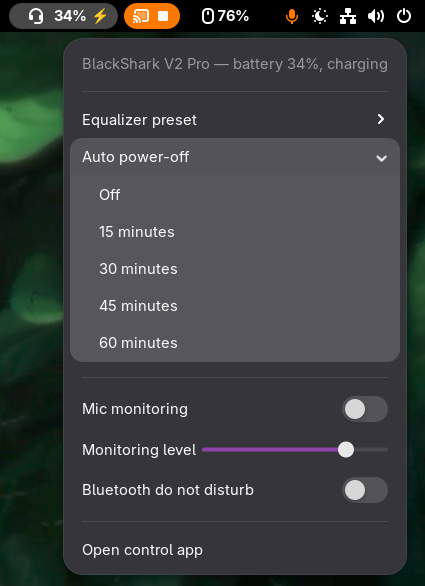
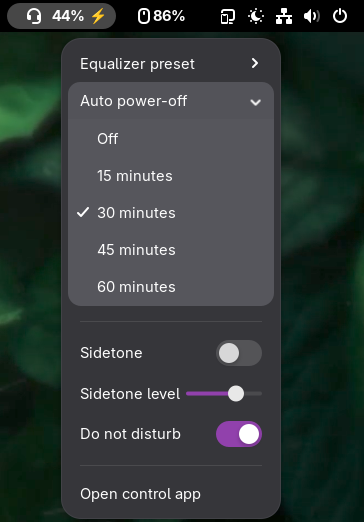
Fix refresh/disable races, find headset by USB ID, drop menu status line, update README

diff --git a/extension.js b/extension.js
@@ -6,6 +6,7 @@
 import Gio from 'gi://Gio';
 import GLib from 'gi://GLib';
 import GObject from 'gi://GObject';
+import Shell from 'gi://Shell';
 import St from 'gi://St';
 import Clutter from 'gi://Clutter';
 
@@ -16,6 +17,12 @@ import * as PopupMenu from 'resource:///org/gnome/shell/ui/popupMenu.js';
 import * as Slider from 'resource:///org/gnome/shell/ui/slider.js';
 
 const BUS = 'org.razer';
+// USB id of the 2.4 GHz dongle; matched instead of the device name so other
+// BlackShark models OpenRazer may support later are left alone.
+const RAZER_VID = 0x1532;
+const BLACKSHARK_PID = 0x0555;
+// Installed by the BlackShark GUI (blacksharkv2pro_gui).
+const GUI_APP_ID = 'dev.blacksharkv2pro.gui.desktop';
 const POLL_SECONDS = 30;
 // The mute button is a physical control on the earcup, so poll it more often
 // than the battery - a 30 s lag on a mute indicator is useless. Each read is
@@ -44,11 +51,11 @@ const SLEEP_CHOICES = [
     [60, '60 minutes'],
 ];
 
-function dbusCall(path, iface, method, args = null) {
+function dbusCall(path, iface, method, args = null, cancellable = null) {
     return new Promise((resolve, reject) => {
         Gio.DBus.session.call(
             BUS, path, iface, method, args, null,
-            Gio.DBusCallFlags.NONE, 3000, null,
+            Gio.DBusCallFlags.NONE, 3000, cancellable,
             (conn, res) => {
                 try {
                     resolve(conn.call_finish(res).recursiveUnpack());
@@ -65,7 +72,14 @@ class BlacksharkIndicator extends PanelMenu.Button {
         super._init(0.0, 'BlackShark V2 Pro');
 
         this._devicePath = null;
+        // Cancelled in destroy(): a D-Bus call still in flight then fails
+        // instead of resolving into actors that are already gone (GNOME
+        // disables extensions on every screen lock).
+        this._cancellable = new Gio.Cancellable();
         this._updatingUi = false;
+        // Controls the user changed while a menu refresh was reading; the
+        // refresh leaves those alone instead of applying its stale value.
+        this._userEdits = new Set();
         this._micLevelTimeout = null;
         // Sidetone is a single 0-100 value in the daemon API where 0 means
         // off; the daemon scales it to the headset's own range.
@@ -113,10 +127,6 @@ class BlacksharkIndicator extends PanelMenu.Button {
     }
 
     _buildMenu() {
-        this._statusItem = new PopupMenu.PopupMenuItem('BlackShark V2 Pro', {reactive: false});
-        this.menu.addMenuItem(this._statusItem);
-        this.menu.addMenuItem(new PopupMenu.PopupSeparatorMenuItem());
-
         this._presetSub = new PopupMenu.PopupSubMenuMenuItem('Equalizer preset');
         this._presetItems = new Map();
         for (const [key, label] of PRESETS) {
@@ -160,6 +170,7 @@ class BlacksharkIndicator extends PanelMenu.Button {
         this._micSlider.connect('notify::value', () => {
             if (this._updatingUi || !this._devicePath)
                 return;
+            this._userEdits.add('sidetone');
             // a drag emits many changes; debounce before writing
             if (this._micLevelTimeout)
                 GLib.source_remove(this._micLevelTimeout);
@@ -186,32 +197,34 @@ class BlacksharkIndicator extends PanelMenu.Button {
         this._dndSwitch.connect('toggled', (_item, state) => {
             if (this._updatingUi || !this._devicePath)
                 return;
-            dbusCall(this._devicePath, 'razer.device.misc', 'setDnd',
+            this._userEdits.add('dnd');
+            this._call(this._devicePath, 'razer.device.misc', 'setDnd',
                 new GLib.Variant('(b)', [state])).catch(() => {});
         });
         this.menu.addMenuItem(this._dndSwitch);
 
-        if (GLib.find_program_in_path('blackshark-gui')) {
+        // Launch through the shell's app system rather than spawning the
+        // binary: the GUI then gets its own scope, launch feedback and
+        // focus-the-existing-window, like any app started from the dash.
+        const guiApp = Shell.AppSystem.get_default().lookup_app(GUI_APP_ID);
+        if (guiApp) {
             this.menu.addMenuItem(new PopupMenu.PopupSeparatorMenuItem());
             const guiItem = new PopupMenu.PopupMenuItem('Open control app');
-            guiItem.connect('activate', () => {
-                try {
-                    Gio.Subprocess.new(['blackshark-gui'],
-                        Gio.SubprocessFlags.NONE);
-                } catch (_e) {
-                    // app not installed or not launchable; nothing to do
-                }
-            });
+            guiItem.connect('activate', () => guiApp.activate());
             this.menu.addMenuItem(guiItem);
         }
     }
 
+    _call(path, iface, method, args = null) {
+        return dbusCall(path, iface, method, args, this._cancellable);
+    }
+
     async _findDevice() {
-        const [serials] = await dbusCall('/org/razer', 'razer.devices', 'getDevices');
+        const [serials] = await this._call('/org/razer', 'razer.devices', 'getDevices');
         for (const serial of serials) {
             const path = `/org/razer/device/${serial}`;
-            const [name] = await dbusCall(path, 'razer.device.misc', 'getDeviceName');
-            if (name.includes('BlackShark'))
+            const [[vid, pid]] = await this._call(path, 'razer.device.misc', 'getVidPid');
+            if (vid === RAZER_VID && pid === BLACKSHARK_PID)
                 return path;
         }
         return null;
@@ -224,13 +237,14 @@ class BlacksharkIndicator extends PanelMenu.Button {
             if (!this._devicePath)
                 throw new Error('no device');
 
-            const [battery] = await dbusCall(this._devicePath, 'razer.device.power', 'getBattery');
-            const [charging] = await dbusCall(this._devicePath, 'razer.device.power', 'isCharging');
+            const [battery] = await this._call(this._devicePath, 'razer.device.power', 'getBattery');
+            const [charging] = await this._call(this._devicePath, 'razer.device.power', 'isCharging');
             this._label.text = `${Math.round(battery)}%${charging ? ' ⚡' : ''}`;
-            this._statusItem.label.text =
-                `BlackShark V2 Pro — battery ${Math.round(battery)}%${charging ? ', charging' : ''}`;
             this.visible = true;
         } catch (_e) {
+            // disabled mid-call: the actors are gone, leave them alone
+            if (this._cancellable.is_cancelled())
+                return;
             // headset off/unplugged (or daemon down): hide, rediscover on the next poll
             this._devicePath = null;
             this._muteIcon.visible = false;
@@ -246,9 +260,12 @@ class BlacksharkIndicator extends PanelMenu.Button {
             return;
         }
         try {
-            const [muted] = await dbusCall(this._devicePath, 'razer.device.audio', 'getMicMute');
+            const [muted] = await this._call(this._devicePath, 'razer.device.audio', 'getMicMute');
             this._muteIcon.visible = !!muted;
         } catch (_e) {
+            // disabled mid-call: the actors are gone, leave them alone
+            if (this._cancellable.is_cancelled())
+                return;
             // older daemon without getMicMute, or the headset went away
             this._muteIcon.visible = false;
         }
@@ -257,39 +274,63 @@ class BlacksharkIndicator extends PanelMenu.Button {
     _setSidetone(level) {
         if (!this._devicePath)
             return;
-        dbusCall(this._devicePath, 'razer.device.audio', 'setSidetone',
+        this._userEdits.add('sidetone');
+        this._call(this._devicePath, 'razer.device.audio', 'setSidetone',
             new GLib.Variant('(y)', [level])).catch(() => {});
     }
 
     async _refreshMenu() {
         await this._refreshBattery();
-        if (!this._devicePath)
+        if (!this._devicePath || this._cancellable.is_cancelled())
             return;
+
+        // Read everything first, then apply it in one synchronous block:
+        // _updatingUi mutes the switch/slider handlers, so holding it across
+        // the D-Bus round trips would silently drop a toggle made meanwhile.
+        this._userEdits.clear();
+        const path = this._devicePath;
+        const [preset, idle, sidetone, dnd] = await Promise.allSettled([
+            this._call(path, 'razer.device.audio', 'getEqualizerPreset'),
+            this._call(path, 'razer.device.power', 'getIdleTime'),
+            this._call(path, 'razer.device.audio', 'getSidetone'),
+            this._call(path, 'razer.device.misc', 'getDnd'),
+        ]);
+        if (this._cancellable.is_cancelled())
+            return;
+
+        // a failed read leaves its control as it was, and so does a control
+        // the user changed while the reads were in flight
+        const fresh = (result, control) =>
+            result.status === 'fulfilled' && !this._userEdits.has(control);
+
         this._updatingUi = true;
         try {
-            const [preset] = await dbusCall(this._devicePath, 'razer.device.audio', 'getEqualizerPreset');
-            for (const [key, item] of this._presetItems) {
-                item.setOrnament(key === preset
-                    ? PopupMenu.Ornament.CHECK : PopupMenu.Ornament.NONE);
+            if (fresh(preset, 'preset')) {
+                const [active] = preset.value;
+                for (const [key, item] of this._presetItems) {
+                    item.setOrnament(key === active
+                        ? PopupMenu.Ornament.CHECK : PopupMenu.Ornament.NONE);
+                }
             }
 
-            const [seconds] = await dbusCall(this._devicePath, 'razer.device.power', 'getIdleTime');
-            const minutes = Math.round(seconds / 60);
-            for (const [choice, item] of this._sleepItems) {
-                item.setOrnament(choice === minutes
-                    ? PopupMenu.Ornament.CHECK : PopupMenu.Ornament.NONE);
+            if (fresh(idle, 'sleep')) {
+                const minutes = Math.round(idle.value[0] / 60);
+                for (const [choice, item] of this._sleepItems) {
+                    item.setOrnament(choice === minutes
+                        ? PopupMenu.Ornament.CHECK : PopupMenu.Ornament.NONE);
+                }
             }
 
-            const [sidetone] = await dbusCall(this._devicePath, 'razer.device.audio', 'getSidetone');
-            this._micSwitch.setToggleState(sidetone > 0);
-            if (sidetone > 0)
-                this._sidetoneLevel = sidetone;
-            this._micSlider.value = this._sidetoneLevel / 100;
+            if (fresh(sidetone, 'sidetone')) {
+                const [level] = sidetone.value;
+                this._micSwitch.setToggleState(level > 0);
+                if (level > 0)
+                    this._sidetoneLevel = level;
+                this._micSlider.value = this._sidetoneLevel / 100;
+            }
 
-            const [dnd] = await dbusCall(this._devicePath, 'razer.device.misc', 'getDnd');
-            this._dndSwitch.setToggleState(dnd);
-        } catch (_e) {
-            // partial refresh is fine; battery/presence already handled
+            if (fresh(dnd, 'dnd'))
+                this._dndSwitch.setToggleState(dnd.value[0]);
         } finally {
             this._updatingUi = false;
         }
@@ -298,12 +339,13 @@ class BlacksharkIndicator extends PanelMenu.Button {
     _setPreset(key) {
         if (!this._devicePath)
             return;
+        this._userEdits.add('preset');
         // optimistic check-mark; the write is confirmed by the next refresh
         for (const [k, item] of this._presetItems) {
             item.setOrnament(k === key
                 ? PopupMenu.Ornament.CHECK : PopupMenu.Ornament.NONE);
         }
-        dbusCall(this._devicePath, 'razer.device.audio', 'setEqualizerPreset',
+        this._call(this._devicePath, 'razer.device.audio', 'setEqualizerPreset',
             new GLib.Variant('(s)', [key]))
             .catch(() => this._refreshMenu().catch(() => {}));
     }
@@ -311,16 +353,18 @@ class BlacksharkIndicator extends PanelMenu.Button {
     _setSleep(minutes) {
         if (!this._devicePath)
             return;
+        this._userEdits.add('sleep');
         for (const [choice, item] of this._sleepItems) {
             item.setOrnament(choice === minutes
                 ? PopupMenu.Ornament.CHECK : PopupMenu.Ornament.NONE);
         }
-        dbusCall(this._devicePath, 'razer.device.power', 'setIdleTime',
+        this._call(this._devicePath, 'razer.device.power', 'setIdleTime',
             new GLib.Variant('(q)', [minutes * 60]))
             .catch(() => this._refreshMenu().catch(() => {}));
     }
 
     destroy() {
+        this._cancellable.cancel();
         if (this._poll) {
             GLib.source_remove(this._poll);
             this._poll = null;

diff --git a/README.md b/README.md
@@ -88,3 +88,7 @@ a GNOME platform limitation); iterate in the nested shell instead and relogin on
 
 GPL-2.0-or-later (see `LICENSE`) — the license GNOME Shell itself uses, and the one
 extensions.gnome.org expects for published extensions.
+
+## Disclaimer
+
+⚠ Built with AI assistance. Provided as-is, without warranty. Use at your own risk.
